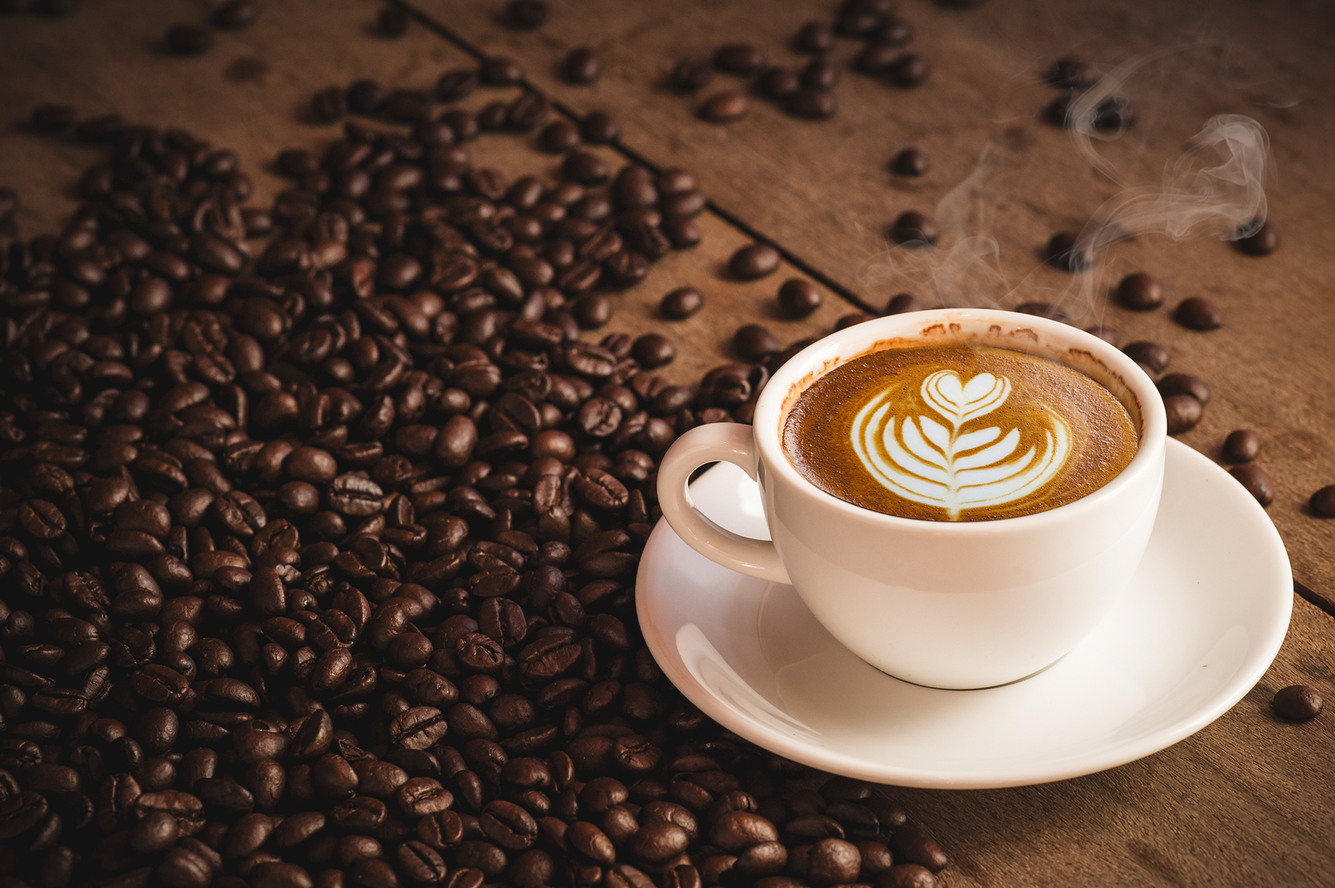
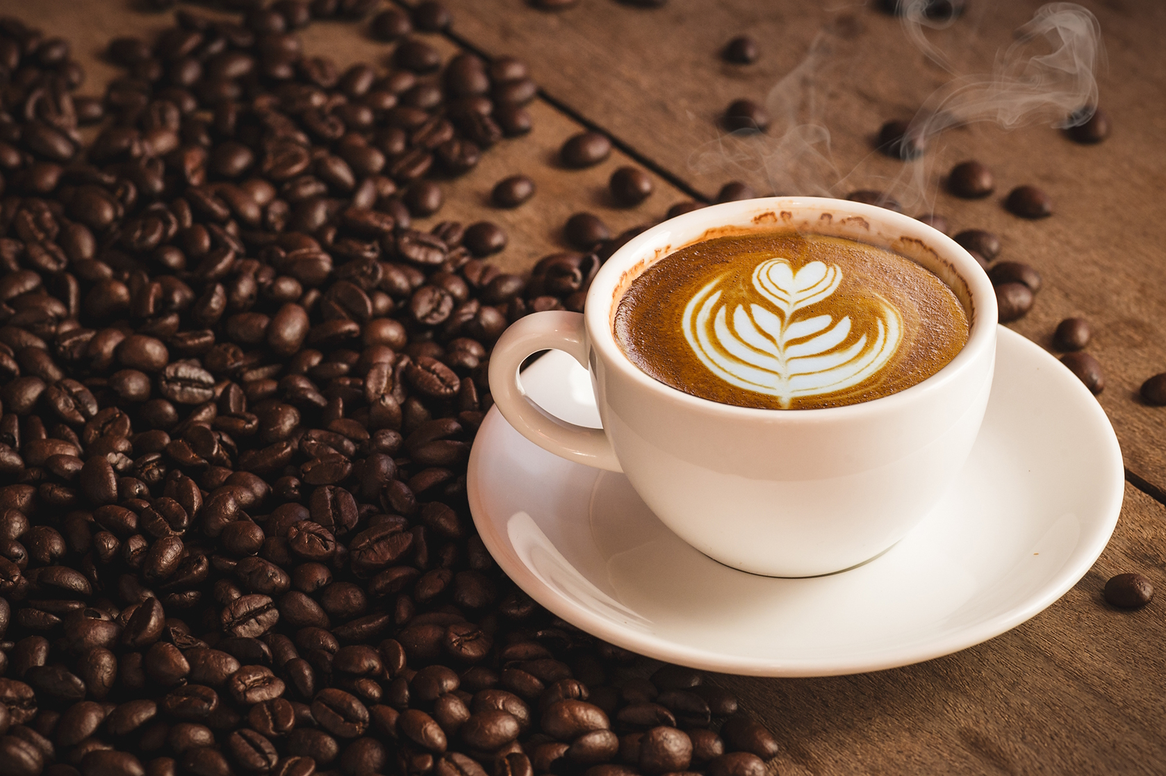
working on about page

diff --git a/src/pages/Home.jsx b/src/pages/Home.jsx
@@ -3,15 +3,12 @@ import coffee from '../assets/img/coffee.jpg'
 import Button from '../components/Button'
 
 const HomeWrapper = styled.section`
-    background: linear-gradient(to right, rgba(0, 0, 0, 0.45), rgba(0, 0, 0, 0.45)), url(${coffee});
-    background-size: cover;
-    background-position: center;
     height: 100%;
     display: flex;
     flex-wrap: wrap-reverse;
-    justify-content: flex-start;
+    justify-content: center;
     align-items: center;
-    clip-path: polygon(0 9%, 100% 6%, 100% 87%, 0 75%);
+    align-content: center;
     padding: 0px 30px;
 
     h1 {
@@ -30,6 +27,16 @@ const HomeWrapper = styled.section`
         background-color: black;
         padding: 30px;
     }
+
+    .coffee {
+        width: 500px;
+        height: 300px;
+        background-position: center;
+        background-size: contain;
+        background-repeat: no-repeat;
+        background-image: url(${coffee});
+        filter: grayscale(100%);
+    }
 `;
 
 function Home() {
@@ -42,6 +49,9 @@ function Home() {
                     <p>We are a totally real coffee shop located in Vancouver, WA.</p>
                     <Button text="LEARN MORE"/>
                 </div>
+            </div>
+            <div className="coffee">
+
             </div>
         </HomeWrapper>
     );

diff --git a/src/pages/About.jsx b/src/pages/About.jsx
@@ -1,0 +1,29 @@
+import styled from "styled-components";
+
+const AboutWrapper = styled.section`
+    .inner-section {
+        width: 400px;
+    }
+
+    .about-image {
+        
+    }
+`;
+
+function About() {
+    return (
+        <AboutWrapper>
+            <div className="container">
+                <div className="inner-section">
+                    <h1>WHO WE ARE</h1>
+                    <p>At Brew Couve, we are passionate about two things: coffee and community. Nestled in the heart of the vibrant city of Vancouver, our coffee shop is a haven for coffee enthusiasts, locals, and visitors alike. We strive to provide an exceptional coffee experience that goes beyond just a great cup of joe.</p>
+                </div>
+                <div className="about-image">
+
+                </div>
+            </div>
+        </AboutWrapper>
+    );
+}
+
+export default About;

diff --git a/src/App.jsx b/src/App.jsx
@@ -1,6 +1,7 @@
 import { BrowserRouter, Routes, Route } from 'react-router-dom';
 import Home from './pages/Home'
 import Menu from './pages/Menu'
+import About from './pages/About'
 import HeaderComponent from './components/Header'
 import styled from 'styled-components'; 
 import './App.css'
@@ -21,6 +22,7 @@ function App() {
         <Routes>
           <Route path="/" element={<Home/>}></Route>
           <Route path="/menu" element={<Menu/>}></Route>
+          <Route path="/about" element={<About/>}></Route>
         </Routes>
       </MainComponent>
     </BrowserRouter>

diff --git a/src/components/Header.jsx b/src/components/Header.jsx
@@ -159,7 +159,7 @@ function HeaderComponent() {
                 <nav className="menu" onClick={() => setChecked(!checked)}>
                     <Link to="/">Home</Link>
                     <Link to="/menu">Menu</Link>
-                    <Link>About</Link>
+                    <Link to="/about">About</Link>
                     <Link>Contact</Link>
                 </nav>
             </div>
